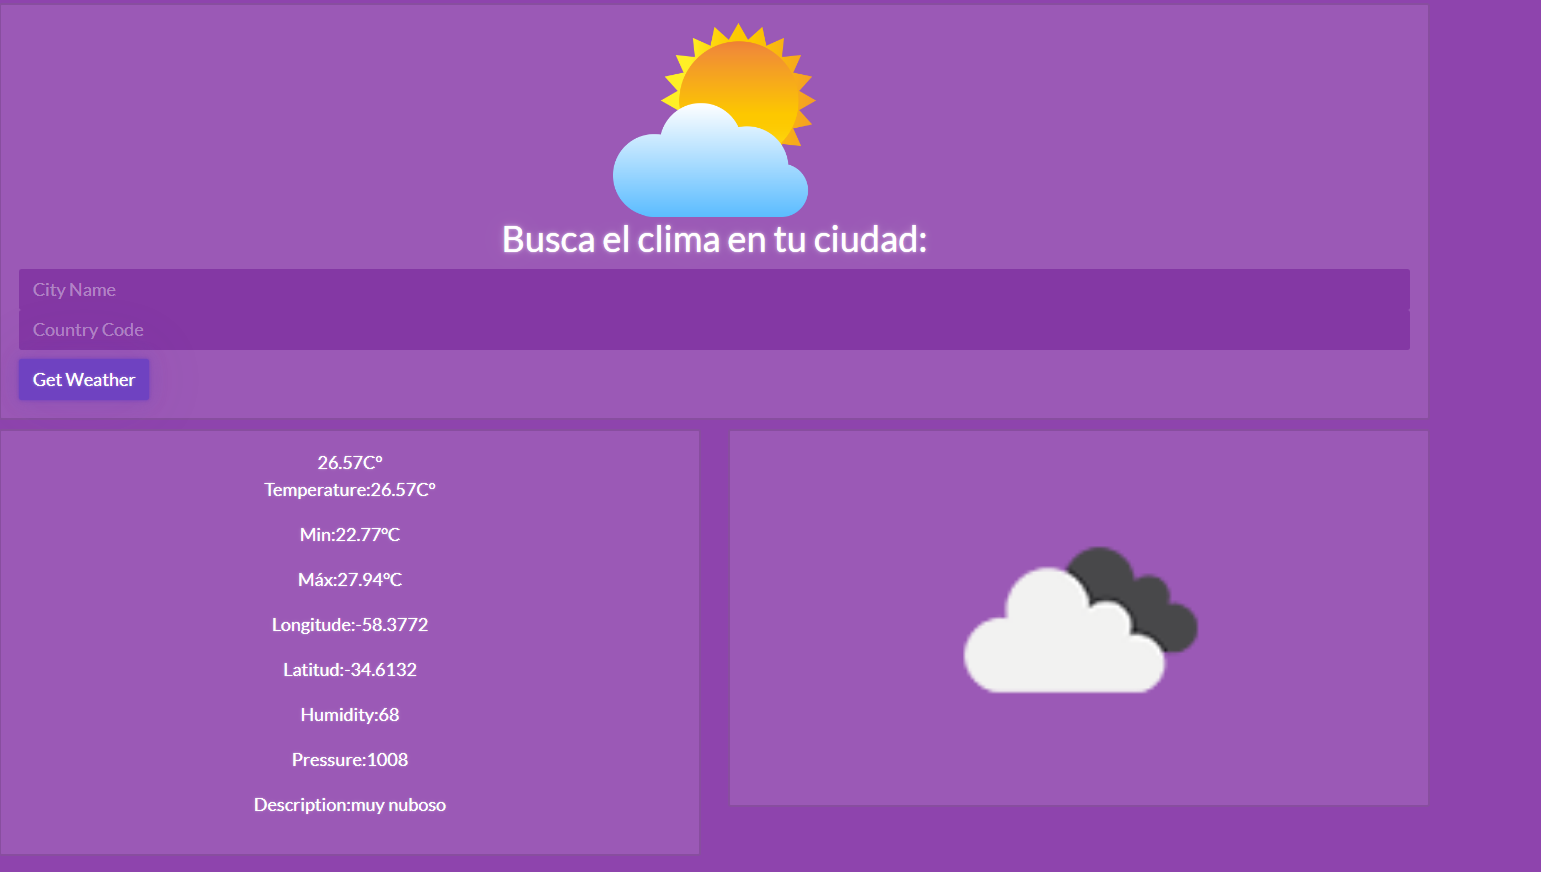
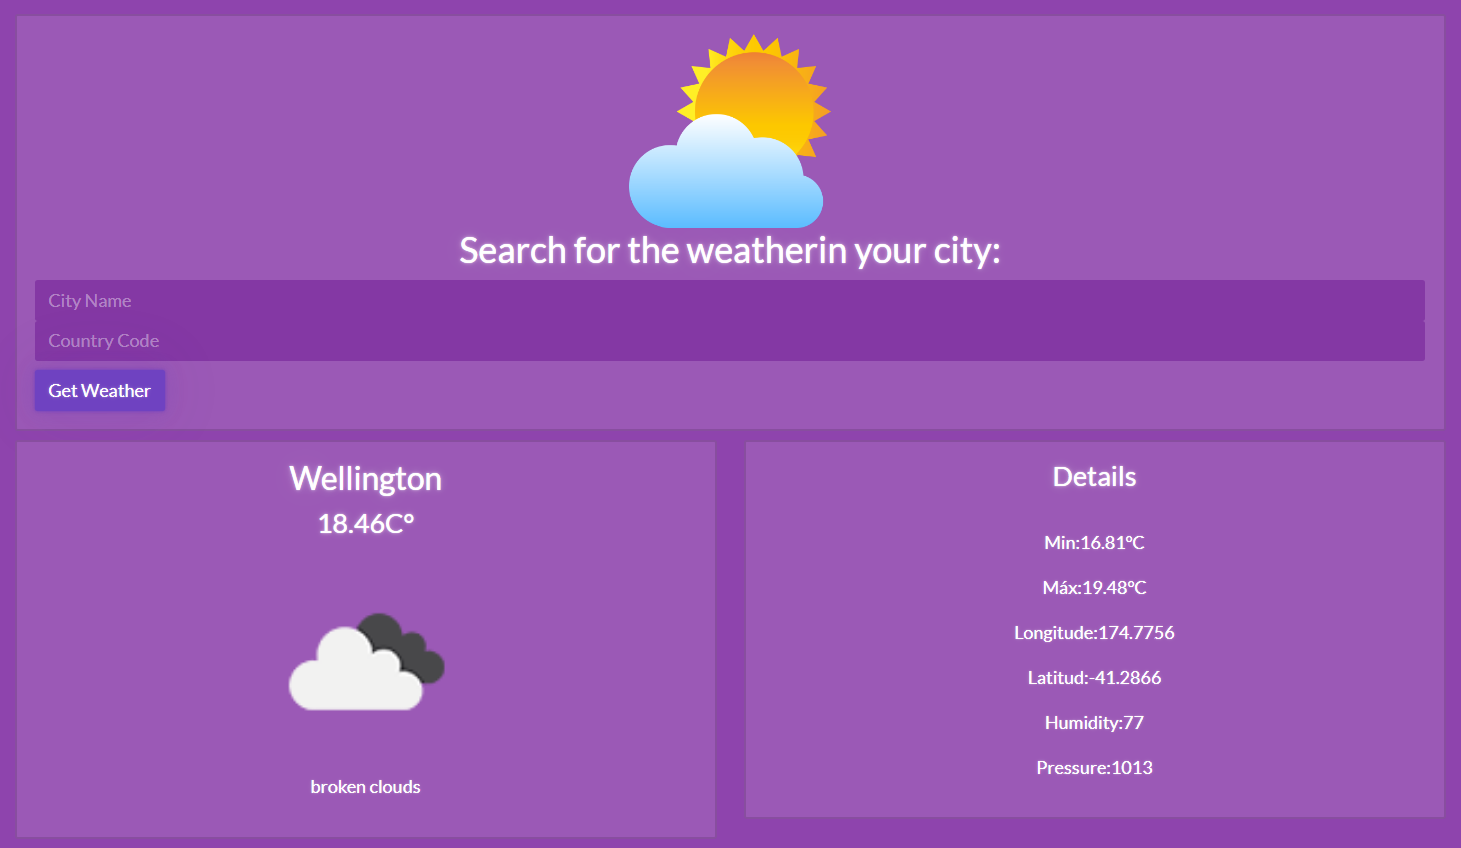
[Add] City name
City name and a new print.

diff --git a/src/app/app.component.html b/src/app/app.component.html
@@ -32,23 +32,29 @@
     </div>
     <div class="col-md-6 sm-3">
       <div *ngIf="weather" class="cardContent card card-body mt-2">
-        <div class="cardContent">{{ weather.main.temp }}C°</div>
-        <p>Temperature:{{ weather.main.temp }}C°</p>
+        <h3>{{ weather.name}}</h3>
+        <h4>{{ weather.main.temp }}C°</h4>
+        <img
+          src="http://openweathermap.org/img/wn/{{weather.weather[0].icon}}@2x.png" class="" style="width: 200px;"
+        />
+        <p>{{ weather.weather[0].description }}</p>
+      </div>
+    </div>
+    <div class="col-md-6 sm-3">
+      <div *ngIf="weather" class="cardContent card card-body mt-2">
+        
+        
+        <h4>Details</h4>
+        <br>
         <p>Min:{{ weather.main.temp_min }}°C</p>
         <p>Máx:{{ weather.main.temp_max }}°C</p>
         <p>Longitude:{{ weather.coord.lon }}</p>
         <p>Latitud:{{ weather.coord.lat }}</p>
         <p>Humidity:{{ weather.main.humidity }}</p>
         <p>Pressure:{{ weather.main.pressure }}</p>
-        <p>Description:{{ weather.weather[0].description }}</p>
+        
       </div>
     </div>
-    <div class="col-md-6 sm-3">
-      <div *ngIf="weather" class="cardContent card card-body mt-2">
-        <img
-          src="http://openweathermap.org/img/wn/{{weather.weather[0].icon}}@2x.png" class="mx-auto" style="width: 300px;"
-        />
-      </div>
-    </div>
+    
   </div>
 </div>
